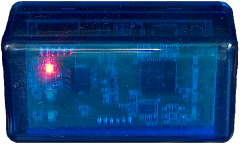
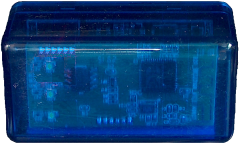
Minor changes. Still a major bug in the settings page is preventing release.

Changed region(s): [[0.1167, 0.3056, 0.3208, 0.5833]]

diff --git a/qml/pages/SettingsPage.qml b/qml/pages/SettingsPage.qml
@@ -29,21 +29,30 @@ Page
     property variant arComboboxStringArray : []    
     property int iPIDPageIndex: 0;
 
+    //Called when a combobox selection changes
     function fncOnComboboxCompleted()
     {
         bPageInitialized = true;
 
         //Here we collect all PID labels in one string array.
-        //This is then the data model for the comboboxes.
+        //This is then the data model for the comboboxes.        
+        //The first entry does not reference to a valid PID.
+        //It is used as a placeholder if the field on a dynamic page has to be empty.
+        //It refers to PID 0000.
         var arComboarray = [qsTr("Empty")];
+
         var iLoopVar = 0;
         for (var i = 0; i < OBDDataObject.arrayPIDs.length; i++)
         {
-            //Show only supported values
+            //Show only values which have a label text, because only these are showable PID's.
+            //Show only PID's which are supported by the car controller.
             if (OBDDataObject.arrayPIDs[i].labeltext !== null && OBDDataObject.arrayPIDs[i].supported)
             {                
+                //Add label text of PID to the combobox data array
                 arComboarray.push(OBDDataObject.arrayPIDs[i].labeltext);
 
+                //Add the other data for this PID to a helper array.
+                //This array is later used to get the data for the PID based on the index.
                 SettingsDataObject.arPIDarray.push({text: OBDDataObject.arrayPIDs[i].labeltext, pid: OBDDataObject.arrayPIDs[i].pid, index: iLoopVar});
             }
             iLoopVar++;
@@ -61,6 +70,7 @@ Page
 
     onStatusChanged:
     {
+        //Called when page is initialized
         if (status === PageStatus.Active && bPushSettingsPage)
         {
             bInitPage = true;
@@ -71,7 +81,7 @@ Page
 
             //Go through array and check if there are unsupported values.
             //Those values will be exchanged to empty fields this is PID "0000".
-            for(var i = 0; i < arPIDsPage.length; i++)
+            for (var i = 0; i < arPIDsPage.length; i++)
             {                
                 if (arPIDsPage[i] !== "0000" && OBDDataObject.arrayLookupPID[arPIDsPage[i].toLowerCase()].supported === false)
                 {
@@ -91,9 +101,12 @@ Page
             bInitPage = false;
         }
 
-        //Save values to project data when page is closed
+        //Called when page is left
         if (status === PageStatus.Deactivating && !bInitPage)
         {
+            //Save values to project data when page is closed.
+            //Unfortunately this is called whenever a ComboBox is opened, due to crappy QT comboboxes.
+
             var sPIDsPageFromPage = "";
 
             //Check if fields are valid and have changed. Save values.

diff --git a/qml/pages/MainPage.qml b/qml/pages/MainPage.qml
@@ -326,7 +326,7 @@ Page
                     color: "red"
                     anchors.top: parent.top
                     anchors.topMargin: 18
-                    visible: false
+                    visible: (bConnecting && bConnected)
                 }               
                 GlassItem
                 {
@@ -334,11 +334,11 @@ Page
                     color: "yellow"
                     anchors.top: parent.top
                     anchors.topMargin: 42
-                    visible: bConnecting
+                    visible: (iInit > 0)
                     Timer
                     {
                         repeat: true
-                        running: bConnecting
+                        running: (iInit > 0)
                         interval: 250
                         onTriggered: id_GlassItem_Yellow.dimmed = !id_GlassItem_Yellow.dimmed
                     }
@@ -349,11 +349,11 @@ Page
                     color: "#03EC16"
                     anchors.top: parent.top
                     anchors.topMargin: 66
-                    visible: bConnecting
+                    visible: (iInit > 0)
                     Timer
                     {
                         repeat: true
-                        running: bConnecting
+                        running: (iInit > 0)
                         interval: 100
                         onTriggered: id_GlassItem_Green.visible = !id_GlassItem_Green.visible
                     }
